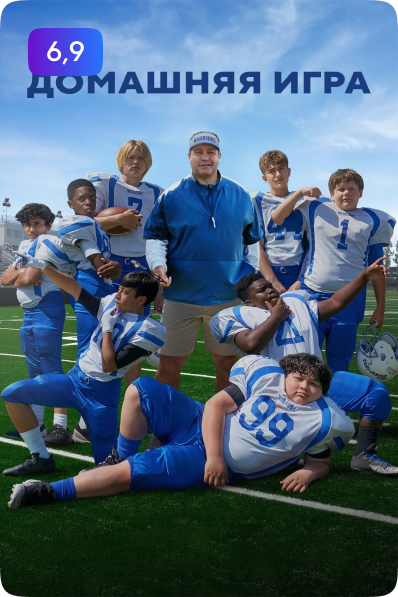
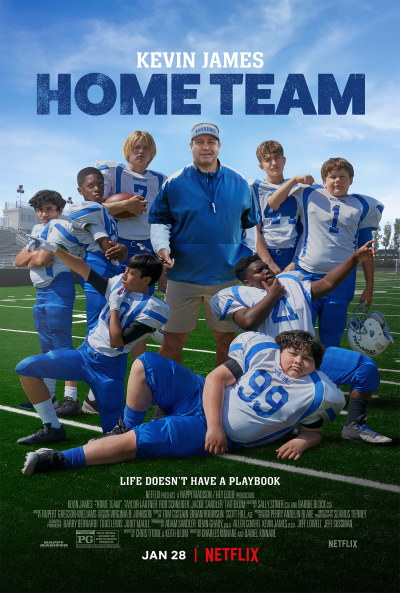
add: rating to posters

diff --git a/src/components/SeriesPage/SimilarCarousel.tsx b/src/components/SeriesPage/SimilarCarousel.tsx
@@ -26,8 +26,20 @@ export const SimilarCarousel = ({ id }: SimilarCarouselProps) => {
           .filter((movie) => movie.id !== id)
           .map((movie) => (
             <SwiperSlide key={movie.id} className={styles.swiperSlide}>
-              <Link href={`/series/${movie.id}`}>
-                <img src={movie.posterUrl} alt="" />
+              <Link
+                href={`/series/${movie.id}`}
+                className={styles.newMoviesCarouselElement}
+              >
+                <div
+                  className={["relative", styles.ratingImageContainer].join(
+                    " "
+                  )}
+                >
+                  <img src={movie.posterUrl} alt="" />
+                  <span className={["absolute", styles.ratingBlock].join(" ")}>
+                    {movie.rating}
+                  </span>
+                </div>
               </Link>
             </SwiperSlide>
           ))}

diff --git a/src/components/HomePage/NewMoviesCarousel.tsx b/src/components/HomePage/NewMoviesCarousel.tsx
@@ -27,7 +27,14 @@ export const NewMoviesCarousel = () => {
               href={`/series/${movie.id}`}
               className={styles.newMoviesCarouselElement}
             >
-              <img src={movie.posterUrl} alt="" />
+              <div
+                className={["relative", styles.ratingImageContainer].join(" ")}
+              >
+                <img src={movie.posterUrl} alt="" />
+                <span className={["absolute", styles.ratingBlock].join(" ")}>
+                  {movie.rating}
+                </span>
+              </div>
               <h3 className={styles.newMoviesCarouselElementTitle}>
                 {movie.name.rus}
               </h3>

diff --git a/src/styles/components/common/Carousels/NewMoviesCarousel.module.scss b/src/styles/components/common/Carousels/NewMoviesCarousel.module.scss
@@ -5,6 +5,21 @@
   display: flex;
   flex-direction: column;
   gap: 5px;
+
+  & .ratingBlock {
+    top: 15px;
+    left: 15px;
+    padding: 2px 10px;
+    background: variables.$color-cyber-gradient;
+    color: variables.$color-text-primary;
+    font-weight: 300;
+    border-radius: 5px;
+  }
+
+  & .ratingImageContainer {
+    width: fit-content;
+    margin: 0 auto;
+  }
 }
 
 .newMoviesCarouselElementTitle {
